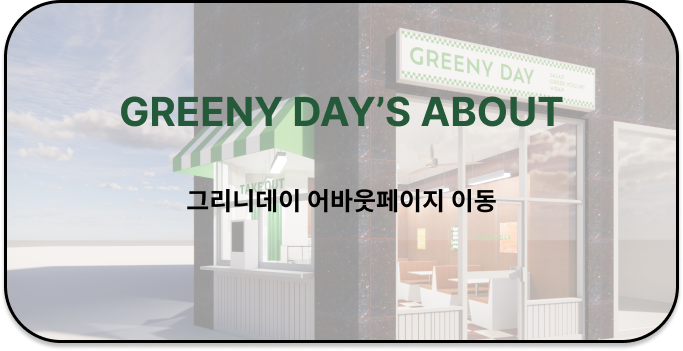
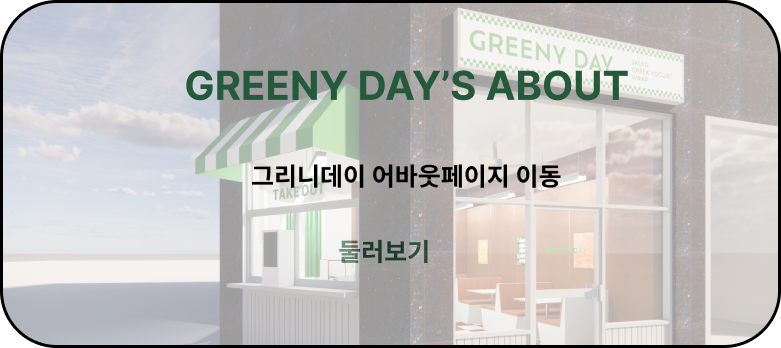
home hover 이미지 크기

Changed region(s): [[0.0, 0.0, 1.0, 1.0], [0.7072, 0.431, 0.7687, 0.4598]]

diff --git a/frontend/src/pages/home.js b/frontend/src/pages/home.js
@@ -63,13 +63,13 @@ function Home() {
             );
           })}
         </div>
-        <div class="w-[1200px] flex justify-between">
-          <a class="  w-1/3   ">
-            <img class=" " src="/nutriinfo.png " />
+        <div class="w-[1200px] m-5 mt-24 flex justify-between">
+          <a href="/home">
+            <img class="hover:scale-105" src="/nutriinfo.png " />
           </a>
-          <div class=" ">
-            <img class=" " src="/outside.png " />
-          </div>
+          <a class=" ">
+            <img class="hover:scale-105" src="/outside.png " />
+          </a>
         </div>
       </div>
       <Footer />
